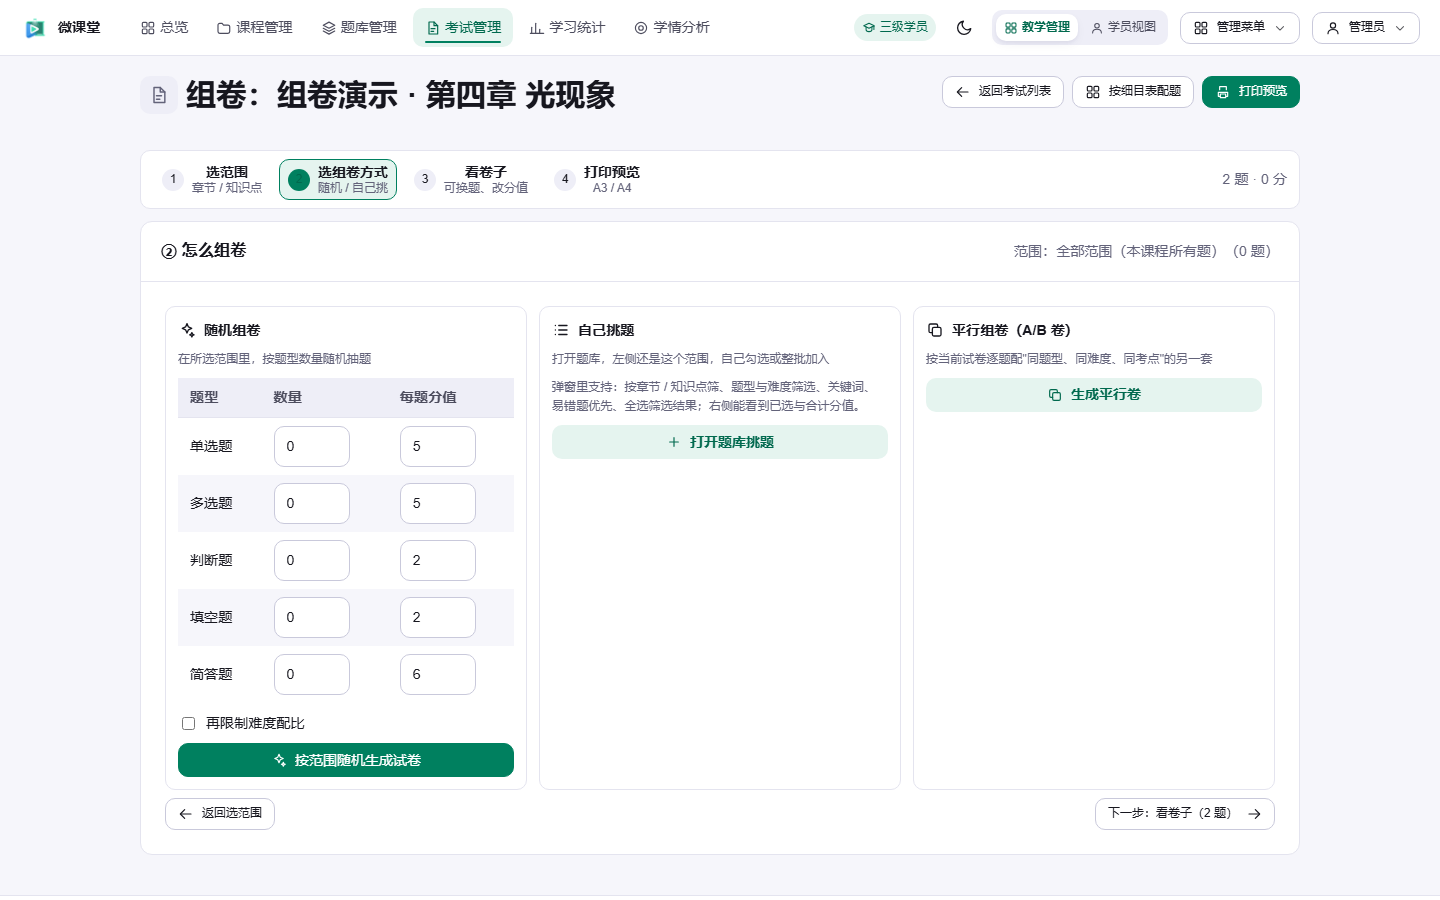
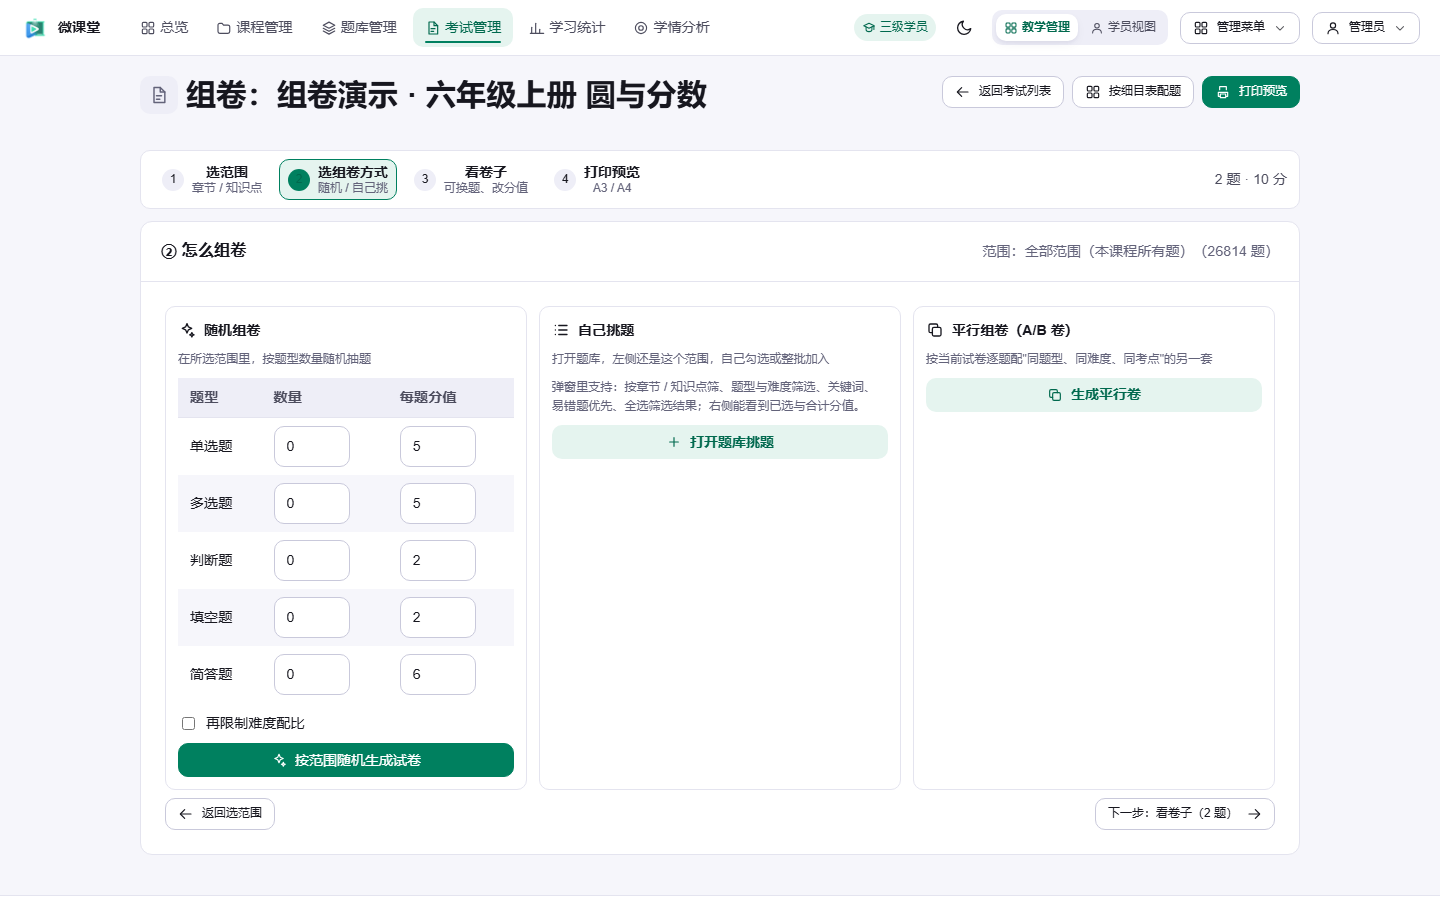
docs: 补拍组卷向导截图并合并贡献指南

Changed region(s): [[0.6875, 0.2489, 0.8438, 0.3111], [0.2812, 0.0933, 0.5, 0.1244], [0.8438, 0.1867, 0.875, 0.2178]]

diff --git a/docs/contributing.md b/docs/contributing.md
@@ -1,107 +1,1 @@
-# 贡献指南
-
-## 开发环境
-
-- Node ≥ 22.5（使用 `node:sqlite`）
-- `npm install` → `npm run migrate` → `npm run dev`
-- 编辑器建议启用 ESLint + Prettier（仓库已含配置）
-
-## 分支与提交
-
-- 分支：`feat/xxx`、`fix/xxx`、`chore/xxx`、`docs/xxx`
-- 提交信息：Conventional Commits（`feat(api): …`、`fix(web): …`、`docs: …`）
-- 一个 PR 只做一件事；改动需同步更新 `CHANGELOG.md` 的 `Unreleased`
-
-## 代码规范（硬性）
-
-1. **分层不得跨越**：路由不写 SQL，仓储不抛 HTTP 语义错误，服务不做 HTTP 处理。
-2. **错误统一**：抛 `AppError`（来自 `@microclass/shared`），禁止裸 `throw new Error` 暴露给用户。
-3. **输入必须校验**：路由用 JSON Schema 声明 `body/querystring/params`。
-4. **写操作必须审计**：服务层调用 `audit.write`（登录、课程/课时/用户/设置等）。
-5. **迁移只增不改**：新变更必须新建 `db/migrations/NNNN_*.sql`；历史迁移禁止修改。
-6. **类型严格**：`strict` + `noUncheckedIndexedAccess`；禁止 `any`（必要时用 `unknown` + 收窄）。
-7. **日志脱敏**：不得打印密码、Cookie、令牌；新增字段请同步 `logger.ts` 的 redact 列表。
-
-## 测试要求
-
-- 新增服务/仓储：补单元测试（覆盖正常 + 边界 + 错误路径）
-- 新增路由：补 `fastify.inject` 集成测试（含鉴权与校验失败用例）
-- 覆盖率不得低于门禁（line ≥ 60% / branch ≥ 50%），下降需在 PR 中说明理由
-
-## 前端界面规范（改 UI 必读）
-
-1. **样式只走令牌**：颜色/间距/圆角/阴影/字号一律用 `styles/tokens.css` 的变量，禁止硬编码色值；
-2. **新组件先进设计系统页**：`apps/web/src/views/admin/DesignSystemView.vue`（路由 `/admin/design`）
-   是组件与令牌的唯一出处 —— 新增组件先在这里加一段，再用于业务页面；
-3. **图标用 `Icon` 组件**（`components/icons.ts` 的图标名是联合类型，拼错在 typecheck 阶段报错），
-   不要再拿 emoji 当图标（emoji 字形/线宽跨平台不一致，也无法跟随主题色）；
-4. **页面结构统一**：`PageHeader`（标题/描述/面包屑/操作区）→ `Toolbar`（筛选/操作）→ 内容卡片；
-5. **主次操作分明**：一屏只保留一个主按钮（`mc-btn--primary`），次要动作用 `mc-btn--soft`/ghost，
-   低频操作收进 `DropdownMenu`（真机踩过：题库详情区曾 8 个同权重按钮并排）；
-6. **可访问性硬门槛**：`npx playwright test tests/e2e/a11y.spec.ts` 必须 0 个 serious/critical
-   （口径 WCAG 2.0/2.1 A+AA）。小字颜色必须用 `--mc-*-fg` 前景色令牌，
-   直接用填充色做文字对比度会不足 4.5:1（真机实测 primary 4.07 / success 4.48 / warning 3.74）。
-
-### 图表（数据可视化）
-
-**不要引入第三方图表库**（自托管轻量平台，且图表库自带硬编码颜色会绕过设计令牌与 `design-guard`）。
-现成的图形都在 `apps/web/src/components/charts/`，几何计算在 `apps/web/src/utils/chart.ts`（**有单测**）：
-
-| 组件           | 用途                                      | 要点                                                               |
-| -------------- | ----------------------------------------- | ------------------------------------------------------------------ |
-| `DonutChart`   | 占比分布（如掌握度四档）                  | 圆心可放总数；图例带图标与百分比；`gapDeg` 控制扇区间隙            |
-| `BarList`      | 排行/对比（知识点薄弱、学员错题、错误率） | `tone` 决定颜色；`valueText`/`hint` 补数值与说明；`clickable` 下钻 |
-| `TrendChart`   | 时间趋势（作答量 + 正确率）               | 自带坐标轴/网格/悬浮明细；柱宽有上限，几天数据也不会变成色块       |
-| `Sparkline`    | KPI 卡里的迷你走势                        | 纯装饰（`aria-hidden`），数值在卡片文字上                          |
-| `ProgressRing` | KPI 卡里的百分比环                        | **必须给 `label`**（屏幕阅读器读它）；小数值用 `text` 传精确文本   |
-
-规矩：
-
-1. 颜色只能通过 `tone`（映射到 `--mc-*` 令牌），**禁止**在组件里写色值；
-2. 图必须有无障碍名（`role="img"` + `aria-label` 概述，或 `ProgressRing` 的 `label`），
-   数值不能只靠颜色表达；
-3. 新增图形先加几何函数到 `utils/chart.ts` 并补单测（弧线边界、除零、单点数据最容易出错），
-   再到 `/admin/design` 的设计系统页加示例 —— 那里同时是视觉回归的靶子。
-
-## 提交前自检
-
-```bash
-npm run format:check
-npm run lint
-npm run typecheck
-npm run test
-npx playwright test          # 含无障碍扫描与视觉回归
-```
-
-改动界面的额外步骤：
-
-```bash
-# 视觉回归基线（首次或"确实要改外观"时）：确认 diff 符合预期后再更新
-npx playwright test visual --update-snapshots
-# 详细无障碍报告（哪个元素、差多少对比度）
-MC_BASE_HOST=http://127.0.0.1:8091 node build/a11y-report.mjs --only 题库管理
-# 真机截图巡检（登录 → 逐页截图 + 控制台错误）
-MC_BASE_HOST=http://<NAS-IP>:8091 MC_ADMIN_PASS=… node build/ui-audit-shots.mjs
-```
-
-开发期连远端真机数据（视觉迭代不用反复打镜像）：
-
-```bash
-MC_DEV_API=http://<NAS-IP>:8091 npm run dev:web
-```
-
-## 文档要求
-
-- 新增/变更 API：更新 `docs/api.md`
-- 变更架构或依赖方向：更新 `docs/architecture.md`
-- 变更部署或运维方式：更新 `docs/deploy.md` / `docs/ops-runbook.md`
-
-## 贡献授权（重要）
-
-本项目采用 **PolyForm Noncommercial 1.0.0**（禁止商用）。提交 Issue/PR 即表示你同意：
-
-1. 你的贡献以**本项目当前许可**授权给本项目及下游使用者；
-2. 你同意作者可将你的贡献**一并纳入未来的商业授权版本**（即允许作者对本项目（含你的贡献）进行双许可/商业授权）；
-3. 你确认贡献为你原创，或你已获得必要的授权，不存在第三方权利冲突。
-
-> 第 2 条是为了保留"社区版 + 商业授权"双轨的可能。如果你不接受，请先与作者沟通再提交。
+本文件已迁移，见根目录 [CONTRIBUTING.md](../CONTRIBUTING.md)。
